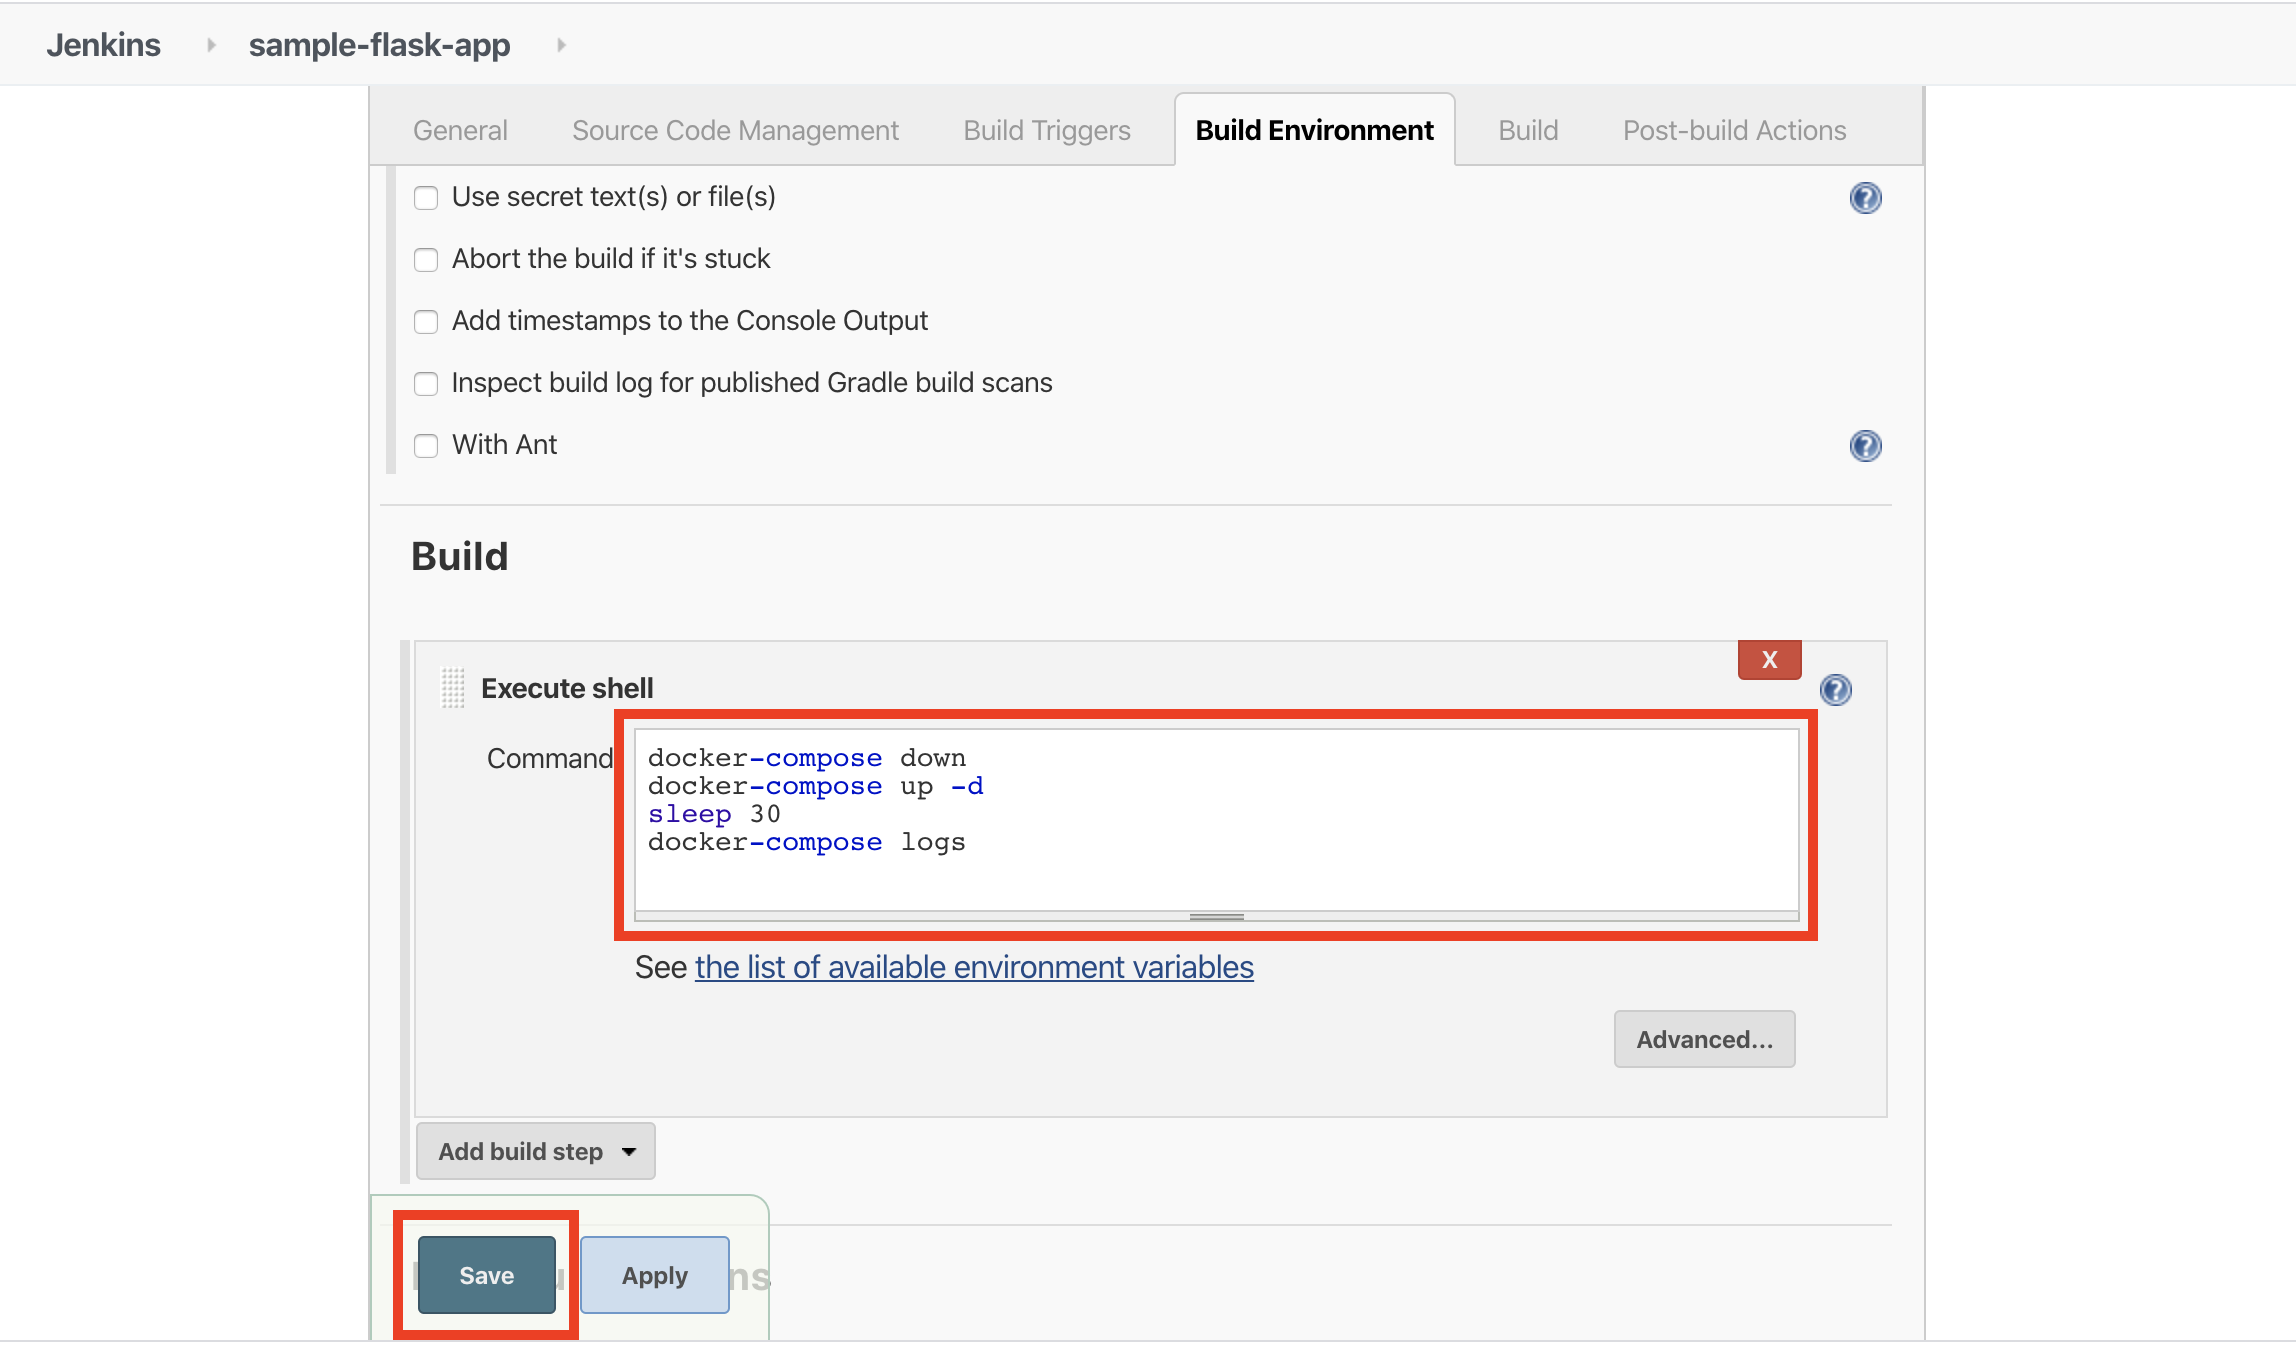
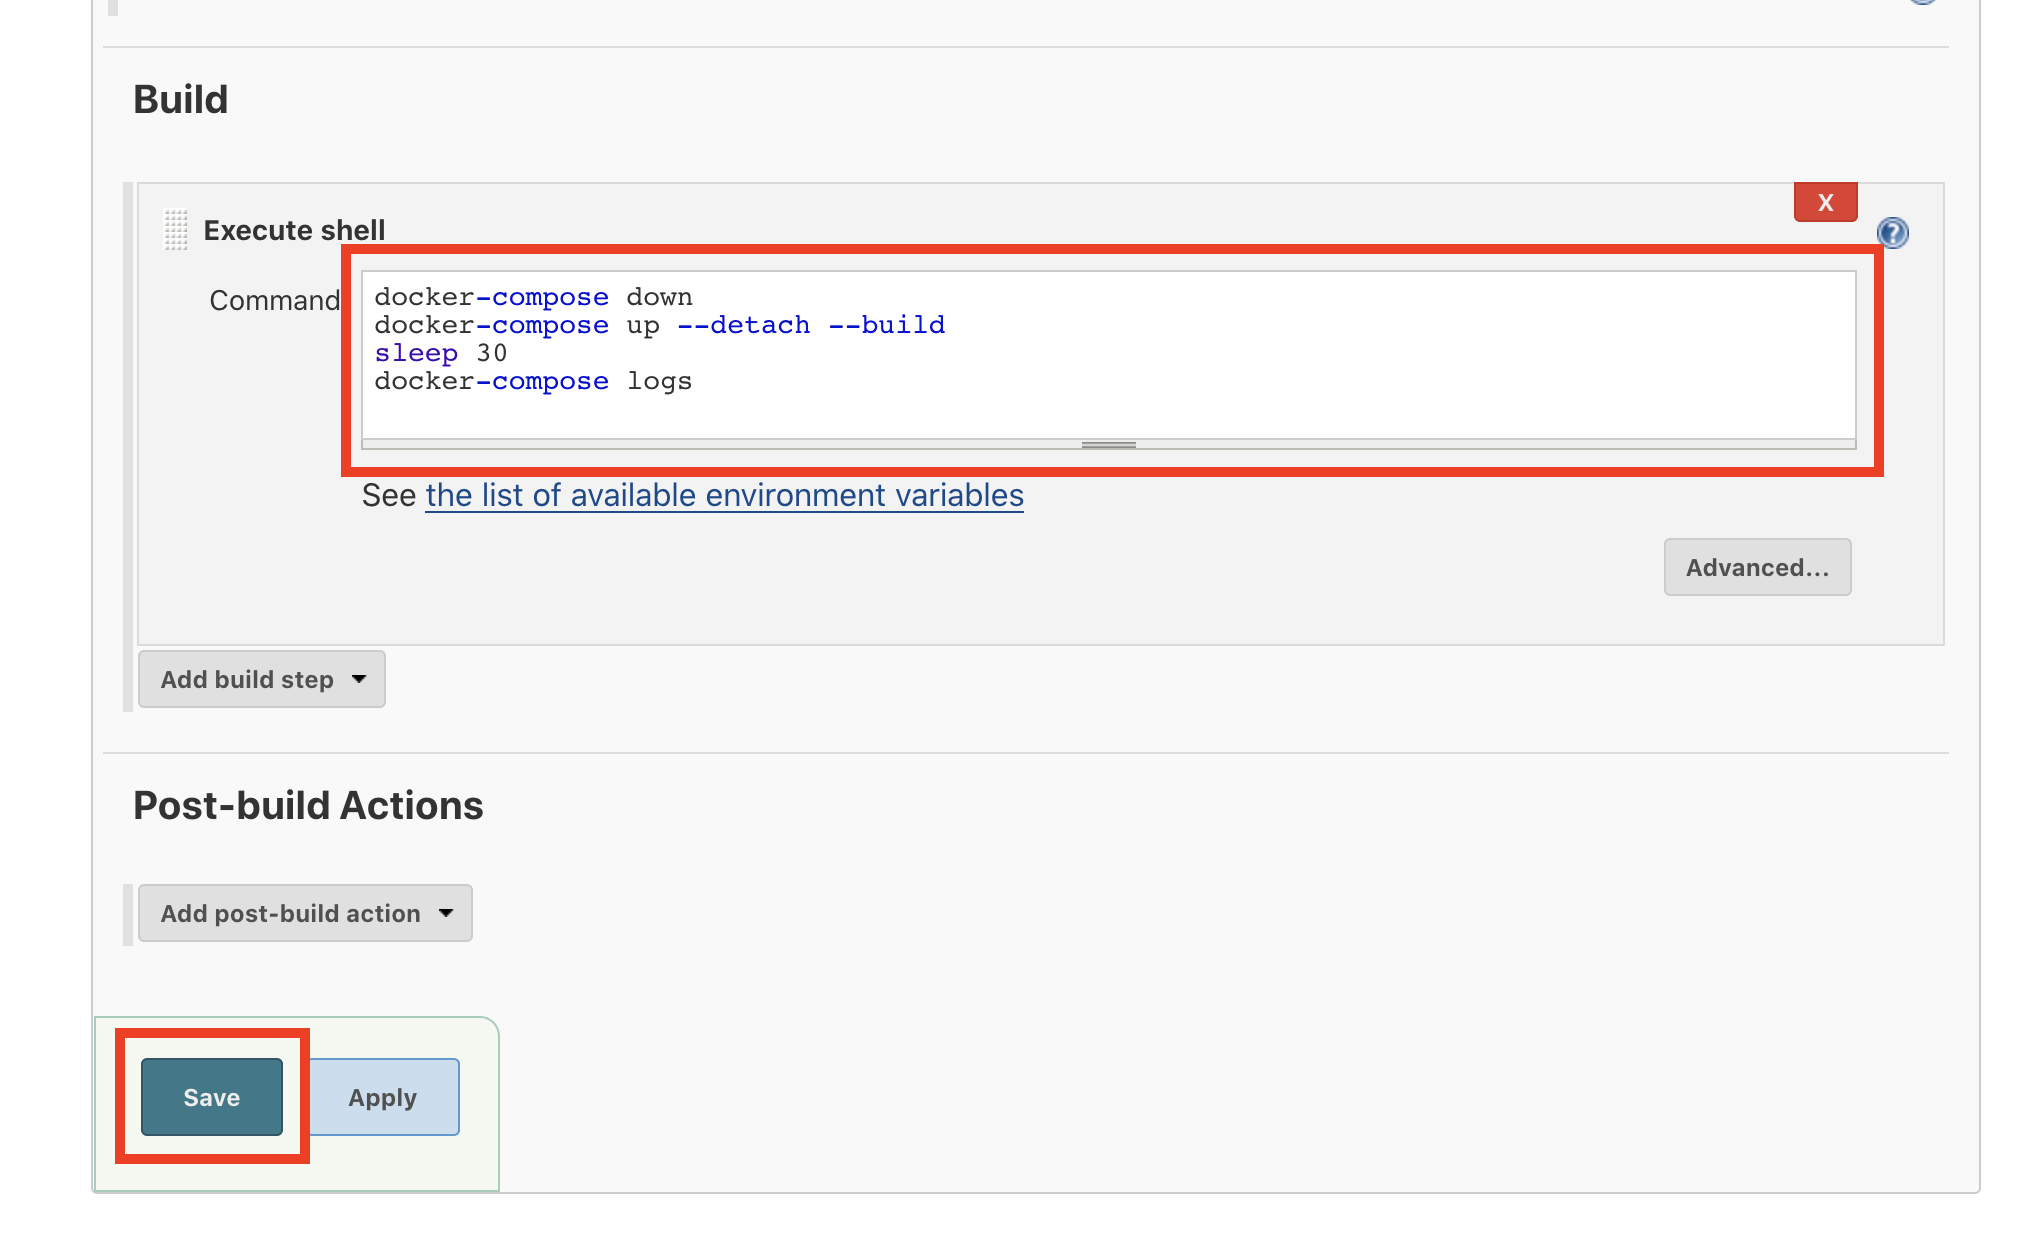
update instructions to include --build

diff --git a/building-the-pipeline.md b/building-the-pipeline.md
@@ -22,7 +22,7 @@ In the `Command` textbox enter the following:
 
 ```
 docker-compose down
-docker-compose up -d
+docker-compose up --detach --build
 sleep 30
 docker-compose logs
 ```
